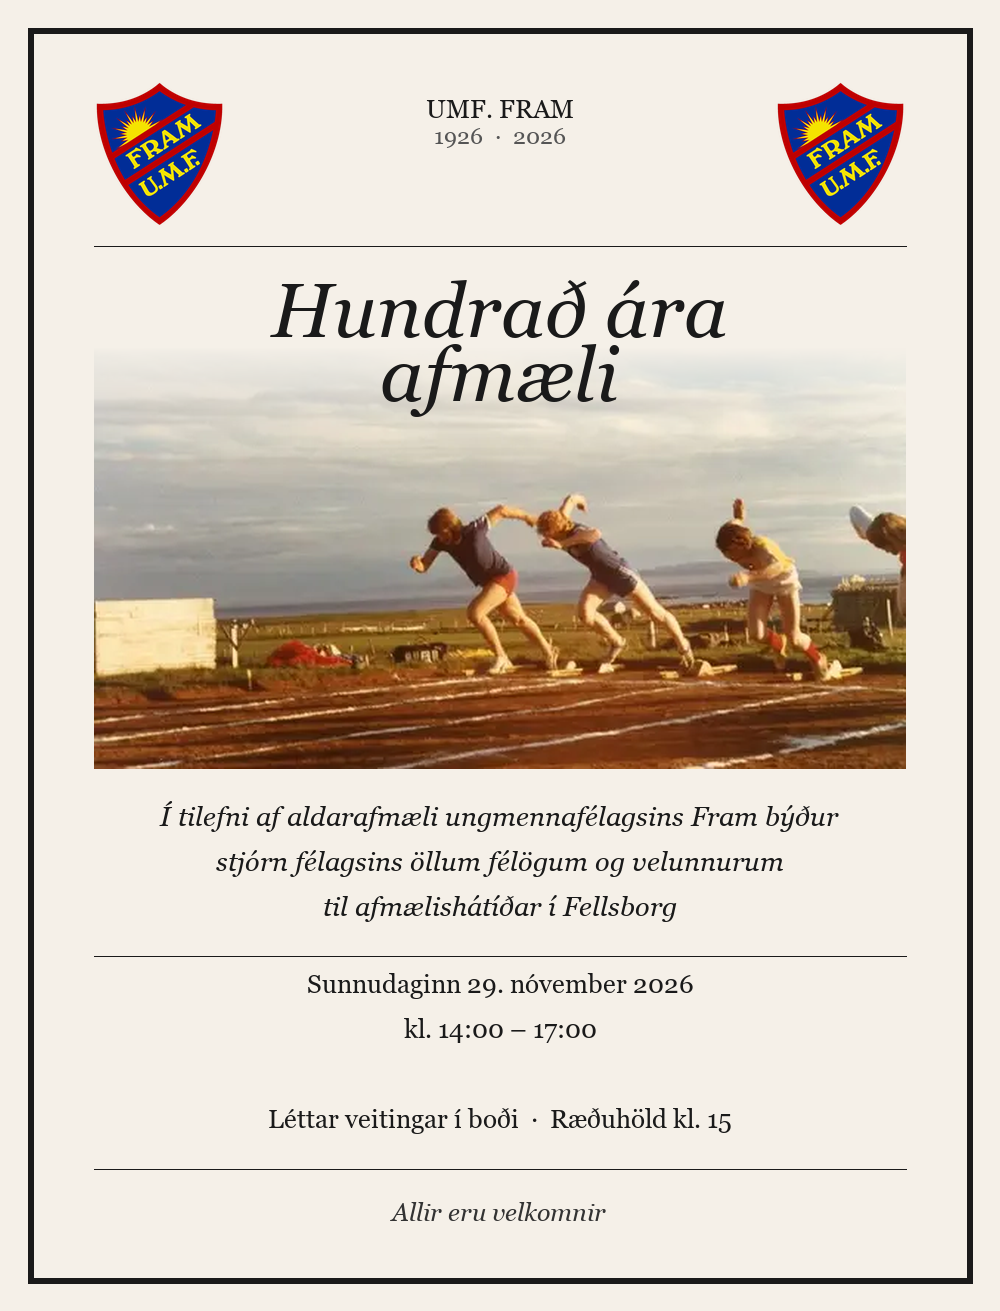
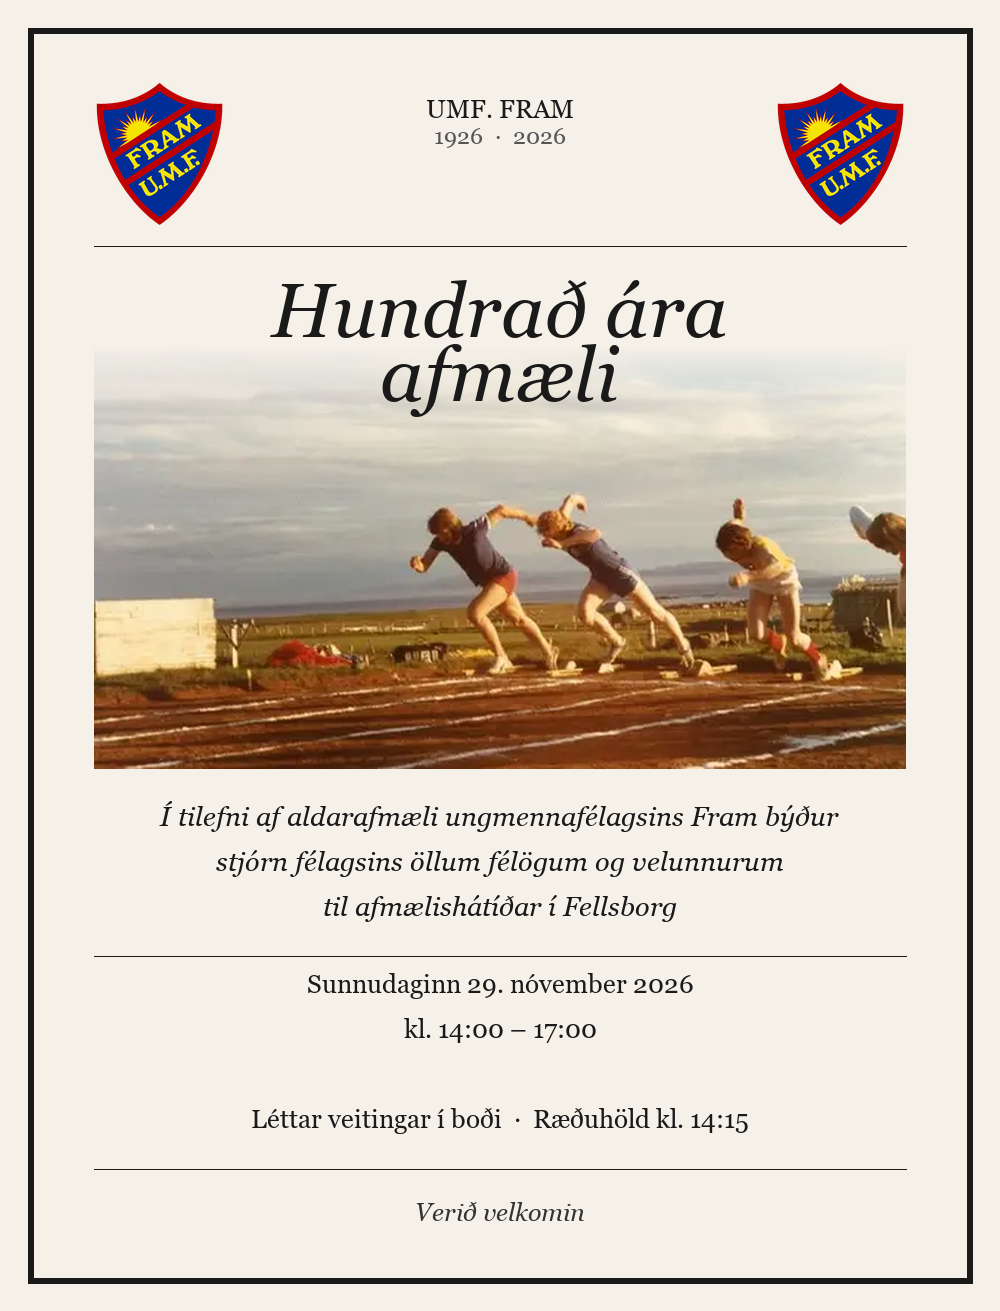
Update anniversary invitation: speeches at 14:15, 'Verið velkomin'

Changed region(s): [[0.403, 0.8238, 0.744, 0.8848], [0.403, 0.9153, 0.589, 0.9458], [0.248, 0.8238, 0.372, 0.8848]]

diff --git a/content/posts/afmaelishatid-100-ara-2026.md b/content/posts/afmaelishatid-100-ara-2026.md
@@ -3,7 +3,7 @@ title = "Ungmennafélagið Fram fagnar 100 ára afmæli"
 date = 2026-11-15T12:00:00Z
 draft = false
 featured_image = "/images/afmaeli-100-ara-2026.png"
-description = "Afmælishátíð í Fellsborg sunnudaginn 29. nóvember 2026 kl. 14–17. Léttar veitingar í boði og ræðuhöld kl. 15. Allir eru velkomnir."
+description = "Afmælishátíð í Fellsborg sunnudaginn 29. nóvember 2026 kl. 14–17. Léttar veitingar í boði og ræðuhöld kl. 14:15. Verið velkomin."
 +++
 
 Ungmennafélagið Fram á Skagaströnd fagnar aldarafmæli sínu í ár. Félagið var stofnað árið 1926 og hefur í heila öld verið miðpunktur íþrótta- og félagslífs á Skagaströnd.
@@ -42,12 +42,12 @@ Ungmennafélagið Fram á Skagaströnd fagnar aldarafmæli sínu í ár. Félagi
     <img class="afm-photo" src="/images/afmaeli-100-ara-hlaup.jpg" alt="Hlauparar á hlaupabraut á Skagaströnd. Ljósmyndasafn Skagastrandar.">
     <p class="afm-body">Í tilefni af aldarafmæli ungmennafélagsins Fram býður stjórn félagsins öllum félögum og velunnurum til afmælishátíðar í Fellsborg</p>
     <hr class="afm-rule">
-    <p class="afm-details">Sunnudaginn 29. nóvember 2026<br>kl. 14:00 – 17:00<br><br>Léttar veitingar í boði &nbsp;·&nbsp; Ræðuhöld kl. 15</p>
+    <p class="afm-details">Sunnudaginn 29. nóvember 2026<br>kl. 14:00 – 17:00<br><br>Léttar veitingar í boði &nbsp;·&nbsp; Ræðuhöld kl. 14:15</p>
     <hr class="afm-rule">
-    <p class="afm-foot">Allir eru velkomnir</p>
+    <p class="afm-foot">Verið velkomin</p>
   </div>
 </div>
 
 Á hátíðinni verður litið yfir farinn veg, rifjaðar upp minningar úr starfi félagsins í gegnum árin og horft til framtíðar. Við hvetjum fólk á öllum aldri til að koma, hitta gamla félaga og eiga góða stund saman.
 
-**Allir eru velkomnir.**
+**Verið velkomin.**
